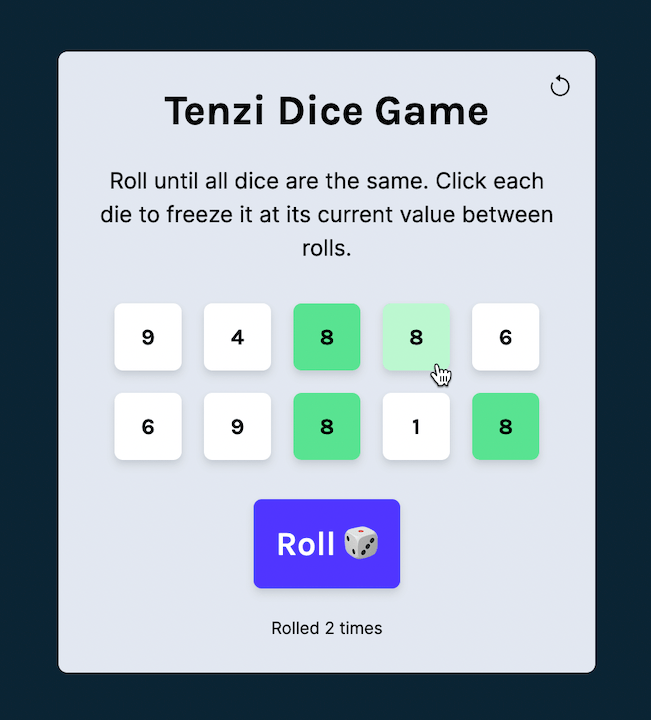
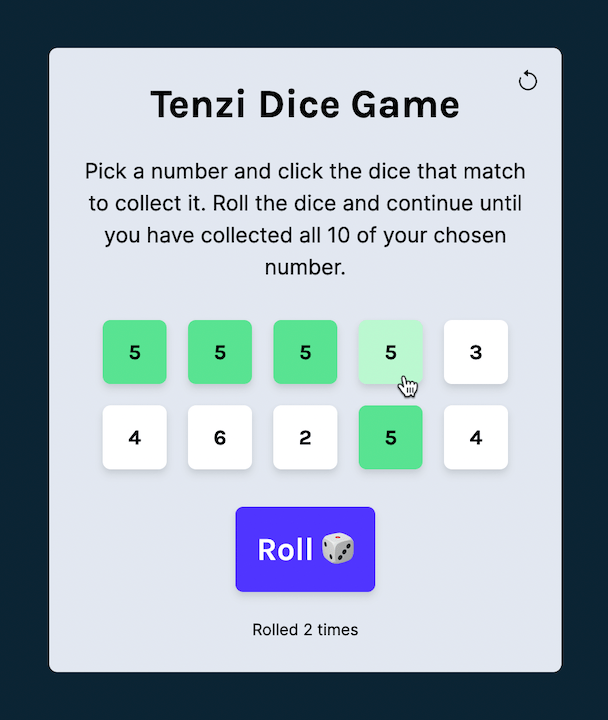
Change dice max-number to 6 - DUH 🤦♂

diff --git a/src/components/Main.js b/src/components/Main.js
@@ -23,7 +23,7 @@ export default function Main(props) {
   const [showModal, setShowModal] = useState(false);
 
   function getRandomDie() {
-    return Math.floor(Math.random() * 10) + 1;
+    return Math.floor(Math.random() * 6) + 1;
   }
 
   function freezeDie(number) {

diff --git a/README.md b/README.md
@@ -1,6 +1,6 @@
 # Tenzi Game
 
-The Tenzi Game is a super simple app in React where the player needs to roll the dice until all 10 die are of the same number. The less dice rolled the higher the score.
+The Tenzi Game is a super simple app in React where the player needs to roll the dice until all 10 die are of the same number. Try and get all 10 in the least amount of dice rolled as possible.
 
 I built this app just to refresh my knowledge in React and give [Tailwind](https://tailwindcss.com) CSS a try.
 
